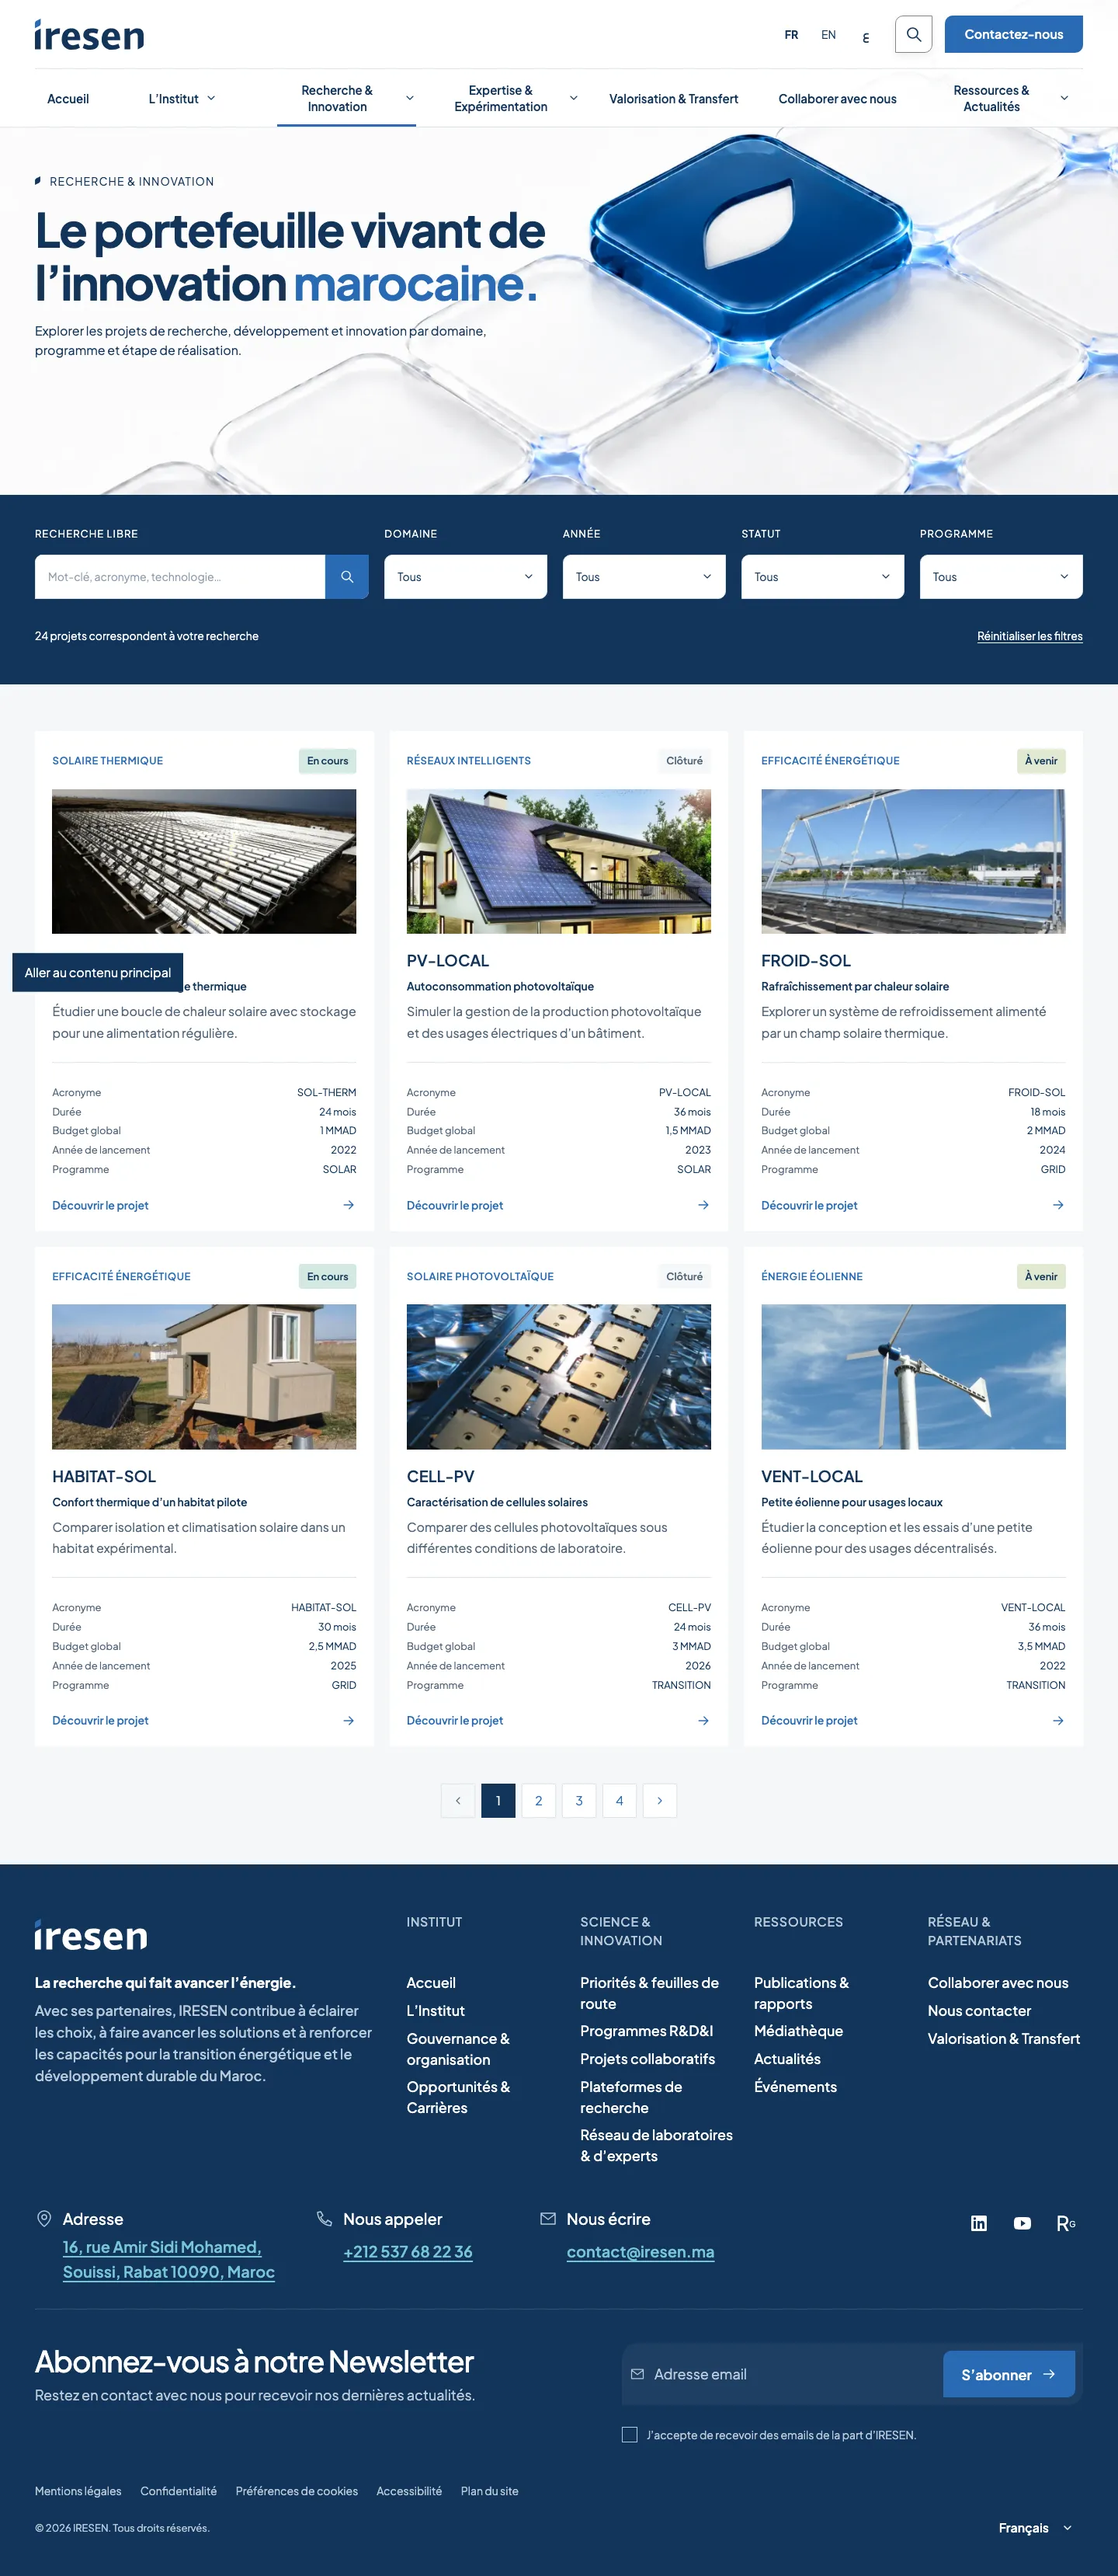
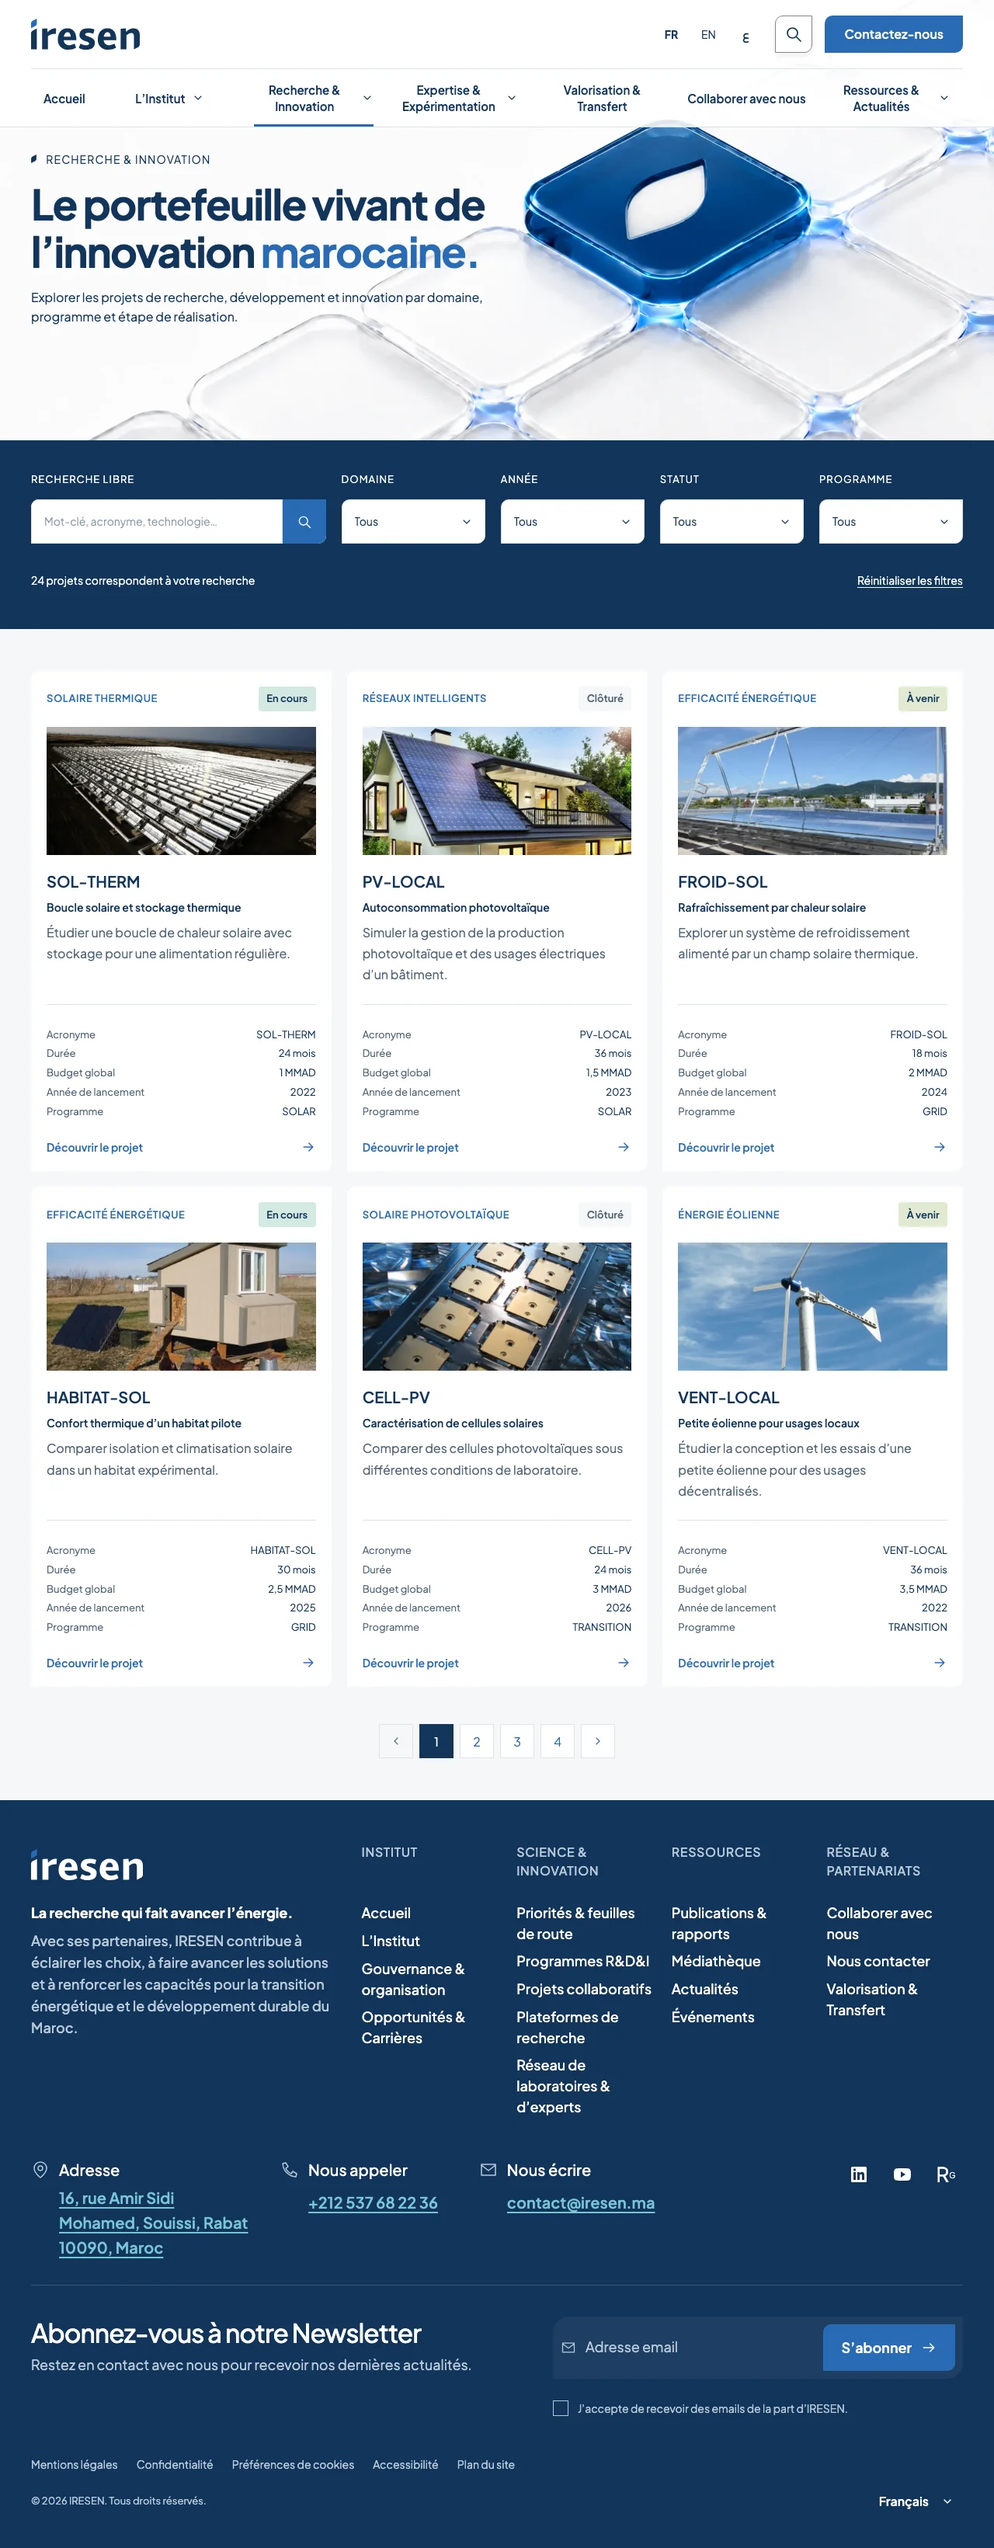
fix(projects): keep detail drawer flush with viewport edge

diff --git a/src/components/projects/ProjectsPage.module.css b/src/components/projects/ProjectsPage.module.css
@@ -436,10 +436,10 @@
 }
 .drawer {
   position: fixed;
-  inset: 0 0 0 auto;
+  inset: 0 auto 0 calc(100vw - min(52rem, 50vw));
   margin: 0;
   inline-size: min(52rem, 50vw);
-  max-inline-size: 100%;
+  max-inline-size: 100vw;
   block-size: 100dvh;
   max-block-size: 100dvh;
   padding: 0;
@@ -587,12 +587,14 @@
 }
 @media (max-width: 70rem) {
   .drawer {
+    left: calc(100vw - min(42rem, 80vw));
     inline-size: min(42rem, 80vw);
   }
 }
 @media (max-width: 40rem) {
   .drawer {
-    inline-size: 100%;
+    left: 0;
+    inline-size: 100vw;
   }
 }
 

diff --git a/tests/e2e/projects.spec.ts b/tests/e2e/projects.spec.ts
@@ -188,6 +188,12 @@ for (const locale of ['fr', 'ar'] as const) {
     page,
   }) => {
     await page.goto(pageHref('projects', locale))
+    await page.mouse.move(1000, 20)
+    await page.screenshot({
+      path: `.local/projects-pagination/${locale}-cards.png`,
+      fullPage: true,
+      animations: 'disabled',
+    })
     const pagination = page.locator('#project-catalogue nav')
     await pagination.scrollIntoViewIfNeeded()
     const top = (await pagination.boundingBox())!.y

diff --git a/docs/projects.md b/docs/projects.md
@@ -146,3 +146,5 @@ Detail follow-up review: [French actions](review/projects/detail-fr-bottom.webp)
 and [Arabic mobile actions](review/projects/detail-ar-mobile-bottom.webp).
 
 Owner follow-up: project cards use the shared two-rounded/two-square corner geometry. Numbered pagination preserves the grid height and controls’ viewport position across pages, skips an already-active page, and keeps back/forward state current. FR/AR browser regressions cover successive page changes and card corners.
+
+Pagination follow-up validation: all 11 project browser checks passed on the latest production build, including successive FR/AR page changes and alternating card corners. Classic-scrollbar CI exposed a 15px drawer gap; its physical positioning and mobile width now use the viewport edge rather than the reserved root scrollbar gutter.
